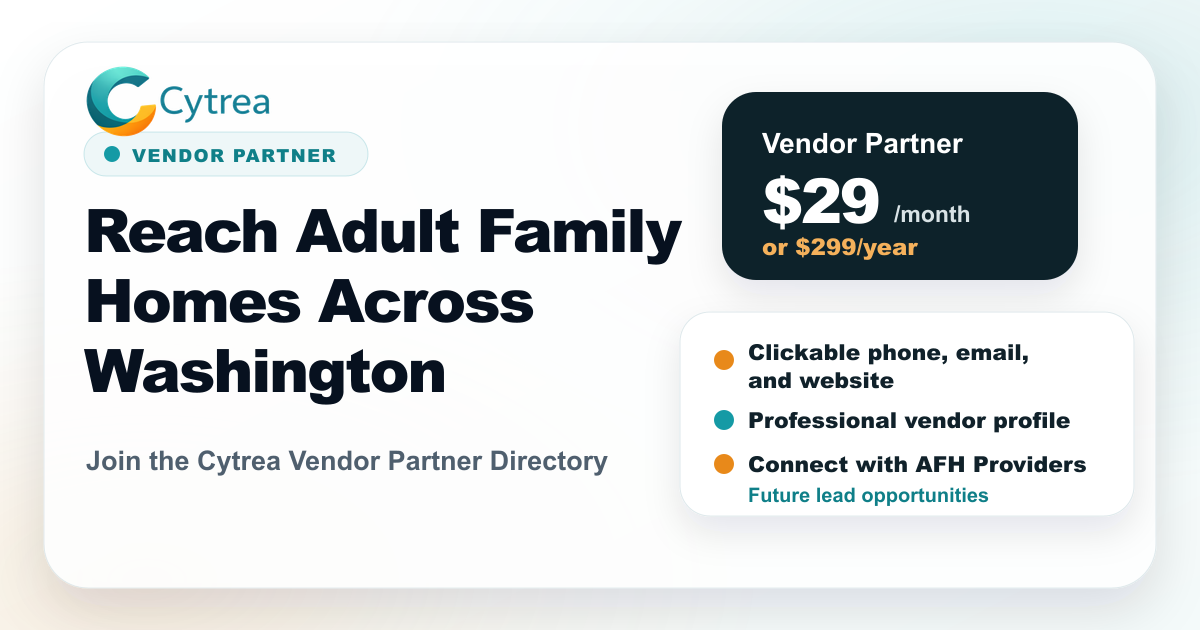
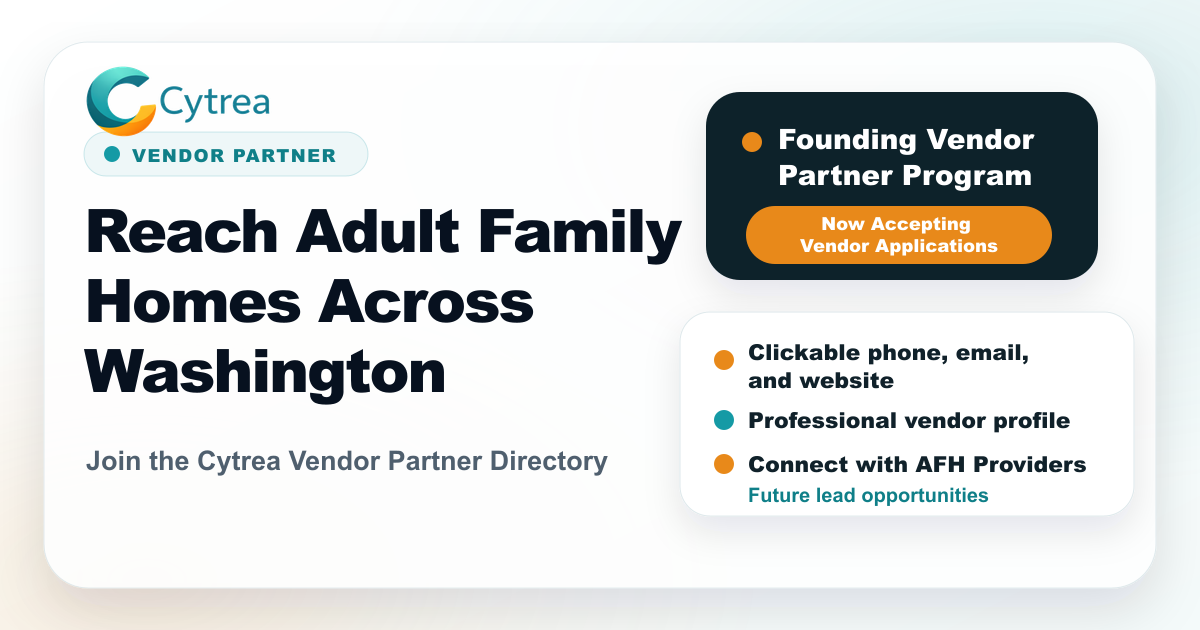
Convert vendor program to founding partner launch

Changed region(s): [[0.5858, 0.1508, 0.925, 0.4524]]

diff --git a/vendor-partners.html b/vendor-partners.html
@@ -75,40 +75,34 @@
           </div>
           <div class="vendor-metric" style="margin-top: 0.85rem;">
             <strong>Simple intake</strong>
-            <span>Apply now. Cytrea reviews before payment or directory placement.</span>
+            <span>Apply now. Cytrea reviews fit before launch directory placement.</span>
           </div>
         </aside>
       </section>
 
-      <section class="vendor-section" aria-labelledby="pricing-title">
+      <section class="vendor-section" aria-labelledby="founding-title">
         <div class="vendor-section-header">
-          <p class="eyebrow">Pricing</p>
-          <h2 id="pricing-title">Vendor Partner</h2>
-          <p>A simple listing option for vendors serving Adult Family Home providers.</p>
+          <p class="eyebrow">Launch program</p>
+          <h2 id="founding-title">Founding Vendor Partner Program</h2>
+          <p>Join Cytrea during our launch phase and become one of our Founding Vendor Partners.</p>
         </div>
 
-        <div class="vendor-layout">
-          <article class="vendor-pricing-card">
-            <h3>Vendor Partner</h3>
-            <div class="price-row">
-              <strong>$29</strong>
-              <span>/ month</span>
-            </div>
-            <p class="pricing-note">or $299/year</p>
-            <a class="primary-button" href="#vendor-intake" style="margin-top: 1.35rem;">Apply to Become a Vendor Partner</a>
+        <div class="vendor-launch-layout">
+          <article class="vendor-card founding-program-card">
+            <span class="featured-partner-badge">Now accepting applications</span>
+            <h3>Launch with Cytrea</h3>
+            <p>Approved vendors can be introduced to Adult Family Home providers as Cytrea expands its launch directory.</p>
+            <a class="primary-button" href="#vendor-intake">Apply to Become a Vendor Partner</a>
           </article>
 
           <article class="vendor-card" style="padding: clamp(1.35rem, 4vw, 2rem);">
-            <h3>Included in your listing</h3>
+            <h3>Founding partner benefits</h3>
             <ul class="vendor-feature-list">
               <li>Professional vendor profile</li>
-              <li>Company logo</li>
+              <li>Visibility to Adult Family Home providers</li>
               <li>Clickable phone, email, and website</li>
-              <li>Service area</li>
               <li>Category placement</li>
-              <li>Provider-visible directory listing</li>
-              <li>Featured partner opportunities</li>
-              <li>AFH-focused discovery</li>
+              <li>Priority consideration for future featured placement opportunities</li>
             </ul>
           </article>
         </div>
@@ -351,7 +345,7 @@
         <div class="vendor-section-header">
           <p class="eyebrow">How it works</p>
           <h2 id="how-title">A reviewed partner workflow</h2>
-          <p>Cytrea reviews vendor applications before payment or directory placement.</p>
+          <p>Cytrea reviews vendor applications before adding approved partners to the launch directory.</p>
         </div>
 
         <div class="vendor-process">
@@ -369,8 +363,8 @@
           <div class="process-arrow" aria-hidden="true">&rarr;</div>
           <article class="vendor-card process-step">
             <span class="step-number">3</span>
-            <h3>Payment link or invoice</h3>
-            <p>Approved vendors receive a payment link or invoice before listing.</p>
+            <h3>Launch approval</h3>
+            <p>Approved vendors are prepared for directory placement during the launch phase.</p>
           </article>
           <div class="process-arrow" aria-hidden="true">&rarr;</div>
           <article class="vendor-card process-step">
@@ -493,7 +487,7 @@
             <div class="vendor-submit-row form-span">
               <button class="primary-button" type="submit">Submit Vendor Application</button>
               <a class="secondary-button" href="mailto:[email redacted]?subject=Cytrea%20Vendor%20Partner%20Application">Email [email redacted]</a>
-              <p class="form-help">No payment is collected on this page. Approved vendors receive a payment link or invoice after review.</p>
+              <p class="form-help">Cytrea is accepting vendor applications for the initial launch phase.</p>
             </div>
           </form>
         </article>

diff --git a/legal.css b/legal.css
@@ -297,7 +297,7 @@ h1 {
 
 .vendor-hero-panel,
 .vendor-card,
-.vendor-pricing-card,
+.founding-program-card,
 .vendor-form-card {
   border: 1px solid rgba(148, 163, 184, 0.14);
   border-radius: 1.65rem;
@@ -366,41 +366,25 @@ h1 {
   font-size: 1.08rem;
 }
 
-.vendor-layout {
+.vendor-layout,
+.vendor-launch-layout {
   display: grid;
   grid-template-columns: minmax(0, 0.88fr) minmax(0, 1.12fr);
   gap: 1.25rem;
   align-items: start;
 }
 
-.vendor-pricing-card {
+.founding-program-card {
   padding: clamp(1.35rem, 4vw, 2rem);
 }
 
-.price-row {
-  display: flex;
-  flex-wrap: wrap;
-  gap: 0.85rem;
-  align-items: baseline;
-  margin-top: 1rem;
+.founding-program-card h3 {
+  margin-top: 1.2rem;
 }
 
-.price-row strong {
-  color: var(--ink);
-  font-size: clamp(2.65rem, 8vw, 4.25rem);
-  letter-spacing: -0.06em;
-  line-height: 1;
-}
-
-.price-row span {
-  color: #64748b;
-  font-weight: 800;
-}
-
-.pricing-note {
-  margin: 0.7rem 0 0;
-  color: #64748b;
-  font-weight: 700;
+.founding-program-card p {
+  margin: 0.75rem 0 1.25rem;
+  color: #475569;
 }
 
 .vendor-feature-list,